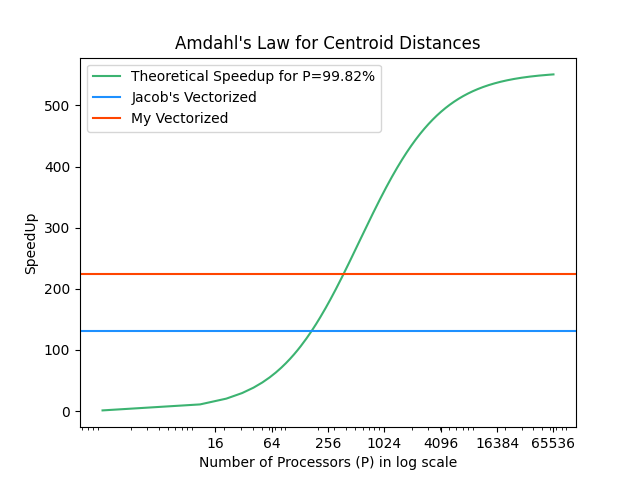
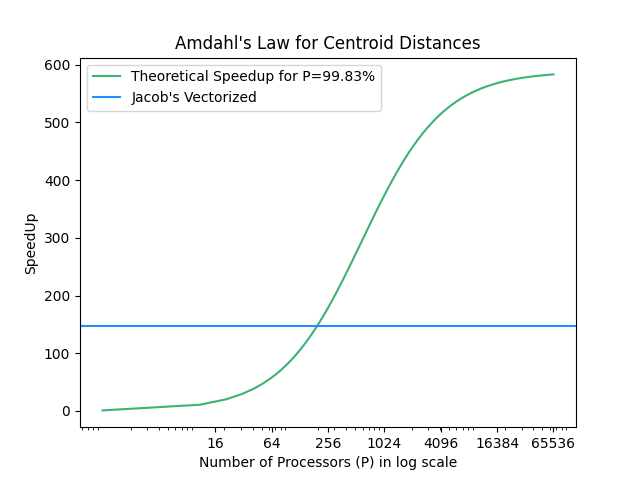
Rerun code for the correct dataset, timed numba kmeans, modified timeit to support acc time. #9

diff --git a/assignment3/kmeans_numba.py b/assignment3/kmeans_numba.py
@@ -1,37 +1,38 @@
 import os
 import numpy as np
-from numba import jit, prange
+from numba import jit
+from typing import IO
 
-from playground import profileit
+from playground import timeit
 from kmeans import KMeansRunner
 
 
-@jit(nopython=True, parallel=True)
+@jit(nopython=True)
 def _compute_distances_vectorized_jacob(num_points: int, num_clusters: int,
                                         centroids: np.ndarray, features: np.ndarray):
     # all  pair-wise _squared_ distances
     centroid_distances = np.zeros((num_points, num_clusters))
-    for i in prange(num_points):
+    for i in range(num_points):
         xi = features[i, :]
-        for c in prange(num_clusters):
+        for c in range(num_clusters):
             cc = centroids[c, :]
             dist = np.sum((xi - cc) ** 2)
             centroid_distances[i, c] = dist
     return centroid_distances
 
 
-@jit(nopython=True, parallel=True)
+@jit(nopython=True)
 def _expectation_step_vectorized_jacob(num_points: int, num_clusters: int,
                                        centroid_distances: np.ndarray,
                                        cluster_assignments: np.ndarray):
     num_changed_assignments = 0
     # claim: we can just do the following:
     # assignments = np.argmin(centroid_distances, axis=1)
-    for i in prange(num_points):
+    for i in range(num_points):
         # pick closest cluster
         cmin = 0
         mindist = np.inf
-        for c in prange(num_clusters):
+        for c in range(num_clusters):
             if centroid_distances[i, c] < mindist:
                 cmin = c
                 mindist = centroid_distances[i, c]
@@ -42,14 +43,14 @@ def _expectation_step_vectorized_jacob(num_points: int, num_clusters: int,
     return centroid_distances, cluster_assignments, num_changed_assignments
 
 
-@jit(nopython=True, parallel=True)
+@jit(nopython=True)
 def _maximization_step_vectorized_jacob(num_clusters: int, num_points: int,
                                         cluster_assignments: np.ndarray,
                                         features: np.ndarray, centroids: np.ndarray):
-    for c in prange(num_clusters):
+    for c in range(num_clusters):
         new_centroid = np.ones(1, )
         cluster_size = 0
-        for i in prange(num_points):
+        for i in range(num_points):
             if cluster_assignments[i] == c:
                 new_centroid = new_centroid + features[i, :]
                 cluster_size += 1
@@ -59,40 +60,61 @@ def _maximization_step_vectorized_jacob(num_clusters: int, num_points: int,
     return centroids
 
 
-@jit(nopython=True)
 def _loop_vectorized_jacob(num_clusters: int, num_points: int, cluster_assignments: np.ndarray,
-                           features: np.ndarray, centroids: np.ndarray):
+                           features: np.ndarray, centroids: np.ndarray, outputs_file: IO):
     loop_cnt = 0
+    t_time_dists = 0.0
+    t_time_expect = 0.0
+    t_time_maxim = 0.0
     while True:
         loop_cnt += 1
         # Compute distances from sample points to centroids
-        centroid_distances = _compute_distances_vectorized_jacob(num_points,
-                                                                 num_clusters,
-                                                                 centroids, features)
+        timeit_obj = timeit(internal_only=True)
+        with timeit_obj:
+            centroid_distances = _compute_distances_vectorized_jacob(num_points,
+                                                                     num_clusters,
+                                                                     centroids, features)
+        t_time_dists += timeit_obj.total
 
         # Expectation step: assign clusters
-        centroid_distances, cluster_assignments, num_changed_assignments = \
-            _expectation_step_vectorized_jacob(num_points, num_clusters,
-                                               centroid_distances,
-                                               cluster_assignments)
+        timeit_obj = timeit(internal_only=True)
+        with timeit_obj:
+            centroid_distances, cluster_assignments, num_changed_assignments = \
+                _expectation_step_vectorized_jacob(num_points, num_clusters,
+                                                   centroid_distances,
+                                                   cluster_assignments)
+        t_time_expect += timeit_obj.total
 
         # Maximization step: Update centroid for each cluster
-        centroids = _maximization_step_vectorized_jacob(num_clusters, num_points,
-                                                        cluster_assignments,
-                                                        features, centroids)
+        timeit_obj = timeit(internal_only=True)
+        with timeit_obj:
+            centroids = _maximization_step_vectorized_jacob(num_clusters, num_points,
+                                                            cluster_assignments,
+                                                            features, centroids)
+        t_time_maxim += timeit_obj.total
 
         if num_changed_assignments == 0:
             break
+
+    custom_print = '_compute_distances_vectorized_jacob K-Means using numba' + \
+                   f' dataset took {t_time_dists:.4f} sec(s)\n'
+    outputs_file.write(custom_print)
+    custom_print = '_expectation_step_vectorized_jacob K-Means using numba' + \
+                   f' dataset took {t_time_expect:.4f} sec(s)\n'
+    outputs_file.write(custom_print)
+    custom_print = '_maximization_step_vectorized_jacob K-Means using numba' + \
+                   f' dataset took {t_time_maxim:.4f} sec(s)\n'
+    outputs_file.write(custom_print)
 
     # return cluster centroids and assignments
     return centroids, cluster_assignments
 
 
-@jit(nopython=True)
-def run_vectorized_jacob(features: np.ndarray, num_clusters: int):
+def run_vectorized_jacob(features: np.ndarray, num_clusters: int, outputs_file: IO):
     """Run k-means algorithm to convergence.
 
     Args:
+        outputs_file:
         features: numpy.ndarray: An num_points-by-d array describing num_points data points each
         of dimension d
         num_clusters: int: The number of clusters desired
@@ -107,8 +129,12 @@ def run_vectorized_jacob(features: np.ndarray, num_clusters: int):
     cluster_assignments = np.zeros(num_points, dtype=np.uint8)
 
     # loop until convergence
-    centroids, cluster_assignments = \
-        _loop_vectorized_jacob(num_clusters, num_points, cluster_assignments, features, centroids)
+    custom_print = f'_loop_vectorized_jacob K-Means using numba' + \
+                   ' dataset took {duration:.4f} sec(s)\n'
+    with timeit(file=outputs_file, custom_print=custom_print):
+        centroids, cluster_assignments = \
+            _loop_vectorized_jacob(num_clusters, num_points, cluster_assignments,
+                                   features, centroids, outputs_file)
 
     # return cluster centroids and assignments
     return centroids, cluster_assignments
@@ -136,32 +162,32 @@ def run(kmeans_obj: KMeansRunner, run_type: str, num_clusters: int, dataset: str
     # Prepare output folders and names
     sys_path = os.path.dirname(os.path.realpath(__file__))
     output_file_name = f'assignment3_{dataset_name}_{run_type}.txt'
-    profiler_file_name = f'assignment3_{dataset_name}_{run_type}.o'
     output_base_path = os.path.join(sys_path, '..', 'outputs')
     if not os.path.exists(output_base_path):
         os.makedirs(output_base_path)
-    profiler_file_path = os.path.join(output_base_path, profiler_file_name)
     output_file_path = os.path.join(output_base_path, output_file_name)
 
     # Open results output file
-    with open(output_file_path, 'w') as outputs_file:
-        outputs_file.write(f'K-Means {run_type} version for the {dataset_name} dataset '
-                           f'with {num_clusters} clusters .\n')
+    outputs_file = open(output_file_path, 'w')
+    outputs_file.write(f'K-Means {run_type} version for the {dataset_name} dataset '
+                       f'with {num_clusters} clusters .\n')
 
-        # Load Dataset if not already loaded
-        features = kmeans_obj._load_dataset(dataset_name, dataset)
+    # Load Dataset if not already loaded
+    features = kmeans_obj._load_dataset(dataset_name, dataset)
 
-        # Run Kmeans
-        k_words = ['kmeans_numba.py', 'ncalls']  # Include only pstats that contain these words
-        custom_print = f'Profiling `{run_type}` K-Means for the `{dataset_name}` dataset: '
-        with profileit(file=outputs_file, profiler_output=profiler_file_path,
-                       custom_print=custom_print,
-                       keep_only_these=k_words):
-            centroids, assignments = run_vectorized_jacob(features=features, num_clusters=num_clusters)
+    # Run Kmeans
+    custom_print = f'`{run_type}` K-Means for the `{dataset_name}`' + \
+                   ' dataset took {duration:.4f} sec(s)\n'
+    with timeit(file=outputs_file, custom_print=custom_print):
+        centroids, assignments = run_vectorized_jacob(features=features, num_clusters=num_clusters,
+                                                      outputs_file=outputs_file)
 
-        # Save results
-        kmeans_obj.logger.info(f"Final Cluster Assignments: \n{assignments}")
-        outputs_file.write(f'Assignments:\n')
-        outputs_file.write(f'{assignments.tolist()}\n')
-        outputs_file.write(f'Centroids:\n')
-        outputs_file.write(f'{centroids.tolist()}')
+    # Save results
+    kmeans_obj.logger.info(f"Final Cluster Assignments: \n{assignments}")
+    outputs_file.write(f'Assignments:\n')
+    outputs_file.write(f'{assignments.tolist()}\n')
+    outputs_file.write(f'Centroids:\n')
+    outputs_file.write(f'{centroids.tolist()}')
+
+    # Close file stream
+    outputs_file.close()

diff --git a/assignment3/amdahl.py b/assignment3/amdahl.py
@@ -19,14 +19,15 @@ def amdahls_law(p, s):
 def distances_plot(p):
     x = []
     y = []
-    for s in range(1, 65537, 10):
+    for s in range(1, 65537):
         x.append(s)
         y.append(amdahls_law(p, s))
     print(y[-1])
     fig, ax = plt.subplots(1, 1)
-    ax.plot(x, y, label=f'Theoretical Speedup for P={p*100}%', color='mediumseagreen')
-    ax.axhline(y=130.129, label=f'Jacob\'s Vectorized', color='dodgerblue')
-    ax.axhline(y=223.950, label=f'My Vectorized', color='orangered')
+    label1 = f'Theoretical Speedup for P={p*100}%'
+    ax.plot(x, y, label=label1, color='mediumseagreen')
+    ax.axhline(y=146.367, label=f'Jacob\'s Vectorized', color='dodgerblue')
+    # ax.axhline(y=223.950, label=f'My Vectorized', color='orangered')
     ax.set_title('Amdahl\'s Law for Centroid Distances')
     ax.set_xlabel('Number of Processors (P) in log scale')
     ax.set_ylabel('SpeedUp')
@@ -34,9 +35,35 @@ def distances_plot(p):
     ax.set_xscale('log')
     ax.set_xticks([16, 64, 256, 1024, 4096, 16384, 65536])
     ax.get_xaxis().set_major_formatter(matplotlib.ticker.ScalarFormatter())
-    plt.show()
     fig.savefig('../outputs/final/assignment3/results/question2.png')
-    plt.clf()
+    return x, y, label1
 
 
-distances_plot(p=0.9982)
+def all_3_plots(p, x2=None, y2=None, label2=None):
+    x = []
+    y = []
+    for s in range(1, 262145, 10):
+        x.append(s)
+        y.append(amdahls_law(p, s))
+    print(y[-1])
+    fig, ax = plt.subplots(1, 1)
+    ax.plot(x, y, label=f'Theoretical Speedup for P={p*100:.2f}%', color='magenta')
+    if x2 is not None and y2 is not None and label2 is not None:
+        ax.plot(x2, y2, label=label2, color='mediumseagreen')
+    # ax.axhline(y=126.95, label=f'Jacob\'s Vectorized with Numba', color='dodgerblue')
+    # ax.axhline(y=245.6, label=f'My Vectorized', color='orangered')
+    ax.set_title('Amdahl\'s Law')
+    ax.set_xlabel('Number of Processors (P) in log scale')
+    ax.set_ylabel('SpeedUp')
+    ax.legend(loc='upper left')
+    ax.set_xscale('log')
+    ax.set_xticks([16, 64, 256, 1024, 4096, 16384, 65536, 262144])
+    ax.get_xaxis().set_major_formatter(matplotlib.ticker.ScalarFormatter())
+    _, top_lim = plt.ylim()
+    plt.ylim(top=top_lim+2)
+    fig.savefig('../outputs/final/assignment3/results/question4a.png')
+
+
+# x, y, label1 = distances_plot(p=0.9983)
+all_3_plots(p=0.9999) #, x2=x, y2=y, label2=label1)
+plt.show()

diff --git a/playground/timing_tools/timeit.py b/playground/timing_tools/timeit.py
@@ -1,5 +1,5 @@
 from contextlib import ContextDecorator
-from typing import Callable, IO
+from typing import Callable, IO, Union
 from functools import wraps
 from time import time
 
@@ -11,6 +11,8 @@ time_logger = ColorizedLogger('Timeit', 'white')
 class timeit(ContextDecorator):
     custom_print: str
     skip: bool
+    total: Union[float, None]
+    internal_only: bool
     file: IO
 
     def __init__(self, **kwargs):
@@ -25,7 +27,9 @@ class timeit(ContextDecorator):
             file: Write the timing output to a file too
         """
 
+        self.total = None
         self.skip = False
+        self.internal_only = False
         self.__dict__.update(kwargs)
 
     def __call__(self, func: Callable):
@@ -56,7 +60,7 @@ class timeit(ContextDecorator):
             return
 
         self.te = time()
-        total = self.te - self.ts
+        self.total = self.te - self.ts
         if hasattr(self, 'func_name'):
             if not hasattr(self, 'custom_print'):
                 print_string = 'Func: {func_name!r} with args: {args!r} took: {duration:2.5f} sec(s)'
@@ -64,7 +68,7 @@ class timeit(ContextDecorator):
                 print_string = self.custom_print
             time_logger.info(print_string.format(*self.args, func_name=self.func_name,
                                                  args=self.all_args,
-                                                 duration=total,
+                                                 duration=self.total,
                                                  **self.kwargs))
         else:
             if not hasattr(self, 'custom_print'):
@@ -72,9 +76,6 @@ class timeit(ContextDecorator):
             else:
                 print_string = self.custom_print
             if hasattr(self, 'file'):
-                self.file.write(print_string.format(duration=total))
-            if hasattr(self, 'skip'):
-                if not self.skip:
-                    time_logger.info(print_string.format(duration=total))
-            else:
-                time_logger.info(print_string.format(duration=total))
+                self.file.write(print_string.format(duration=self.total))
+            if not self.internal_only:
+                time_logger.info(print_string.format(duration=self.total))
